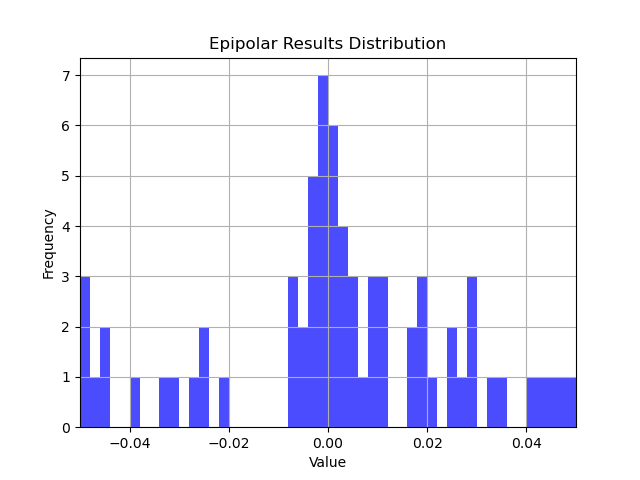
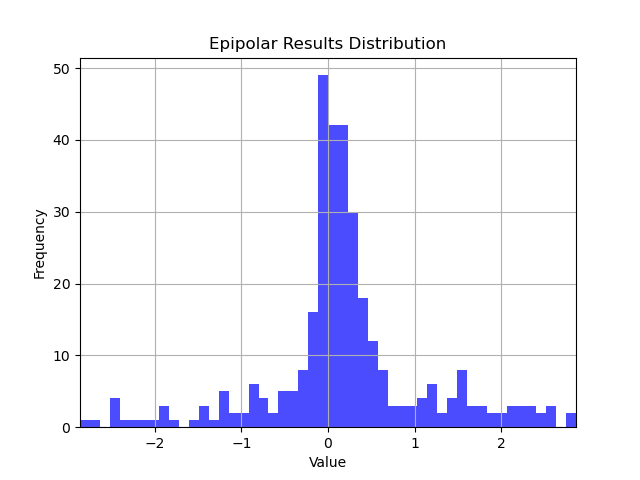
aa

diff --git a/show_matching.py b/show_matching.py
@@ -103,11 +103,36 @@ def main():
     x1,x2 = coord_3d(x1_, dim), coord_3d(x2_, dim)
     s_pts1, s_pts2 = coord_3d(s_pts1, dim), coord_3d(s_pts2, dim)
     E, can, inlier_idx = get_cam_pose_by_ransac_GSM_const_wRT(x1.copy().T,x2.copy().T, get_E = True, I = args.inliers)
-
+    print(inlier_idx)
     R1_,R2_,T1_,T2_ = decomposeE(E.T)
     R_,T_ = choose_rt(R1_,R2_,T1_,T2_,x1,x2)
     E_true = compute_essential_matrix(Rx, Tx_norm)
     results = evaluate_matches(x1, x2, E_true)
+
+    print(Tx)
+    print(x1.shape, x2.shape)
+    #print(E_true)
+    #print(Rx)
+    #print(Tx_norm)
+    #x1_world = np.dot(Rx, (x2-Tx).T).T
+    #x1_world_norm = x1_world / np.linalg.norm(x1_world, axis=1).reshape(-1, 1)
+    #print(x1_world[0:3])
+    #x_a = np.dot(Rx, x1.T).T+Tx.T
+    #x_a = x_a / np.linalg.norm(x_a, axis=1).reshape(-1, 1)
+    #x_b = np.dot(Rx, x1.T).T-Tx.T
+    #x_b = x_b / np.linalg.norm(x_b, axis=1).reshape(-1, 1)
+    #x_c = np.dot(Rx, x2.T).T+Tx.T
+    #x_c = x_c / np.linalg.norm(x_c, axis=1).reshape(-1, 1)
+    #x_d = np.dot(Rx, x2.T).T-Tx.T
+    #x_d = x_d / np.linalg.norm(x_d, axis=1).reshape(-1, 1)
+    #print(x2_world[0:3])
+    #print(x1[0])
+    #print(x2[0:2])
+    #print()
+    #print(x_a[0:2])
+    #print(x_b[0])
+    #print(x_c[0])
+    #print(x_d[0])
 
     print("Evaluation Results:")
     print(f"Valid Matches: {results['valid_matches']} / {results['total_matches']}")
@@ -122,14 +147,16 @@ def main():
     for i in range(len(x1)):
         vis_img = plot_match(img_o, img_r, s_pts1[i, :2], s_pts2[i, :2], x1_[i, :2].copy(), x2_[i, :2].copy(), results['threshold_results'][i])
         vis_img = cv2.resize(vis_img,dsize=(512,512))
+        print(x1[i], x2[i])
         cv2.imshow("aaa", vis_img)
         c = cv2.waitKey()
         if c == 27: # esc
             break
 
 
-def evaluate_matches(x1, x2, E, threshold=np.deg2rad(1)):
-    epipolar_results = np.einsum('ij,jk,ik->i', x2, E, x1)
+def evaluate_matches(x1, x2, E, threshold=1):
+    epipolar_results = np.einsum('ij,jk,ik->i', x2, E, x1)*180/np.pi
+    #print(epipolar_results)
     #angles = np.arccos(np.clip(epipolar_results, -1, 1))
     #max_epipolar_result = np.max(angles)
     #min_epipolar_result = np.min(angles)
@@ -153,11 +180,12 @@ def evaluate_matches(x1, x2, E, threshold=np.deg2rad(1)):
 
 def plot_epipolar_results(epipolar_results):
     plt.figure()
-    plt.hist(epipolar_results, bins=50, color='blue', alpha=0.7, range=(-0.05, 0.05))
+    range = (-0.05*180/np.pi, 0.05*180/np.pi)
+    plt.hist(epipolar_results, bins=50, color='blue', alpha=0.7, range=range)
     plt.title("Epipolar Results Distribution")
     plt.xlabel("Value")
     plt.ylabel("Frequency")
-    plt.xlim(-0.05, 0.05)
+    plt.xlim(range) 
     plt.grid(True)
     plt.savefig("temp_histogram.png")
     plt.close()

diff --git a/extract_keypoints.py b/extract_keypoints.py
@@ -35,10 +35,10 @@ device = 'cuda' if torch.cuda.is_available() else 'cpu'
 base_order = 0  # Base sphere resolution
 sample_order = 8  # Determines sample resolution (10 = 2048 x 4096) (0, 8): 20*256*256
 scale_factor = 1.0  # How much to scale input equirectangular image by
-
+np.random.seed(1)
+random.seed(1)
 
 def main():
-
     parser = argparse.ArgumentParser(description = 'Tangent Plane')
     parser.add_argument('--points', type=int, default = 10000)
     parser.add_argument('--match', default="BF")
@@ -129,7 +129,7 @@ def main():
                         s_pts1, s_pts2, x1_, x2_ = matched_points(pts1, pts2, desc1, desc2, "100p", opt, args.match)
                         x1,x2 = coord_3d(x1_, dim), coord_3d(x2_, dim)
                         s_pts1, s_pts2 = coord_3d(s_pts1, dim), coord_3d(s_pts2, dim)
-                        results1 = evaluate_matches(x1, x2, E_true, threshold=np.deg2rad(1))
+                        results1 = evaluate_matches_angle(x1, x2, E_true, threshold=np.deg2rad(1))
                         
                         if x1.shape[0] < 8:
                             R_error, T_error = 3.14, 3.14
@@ -178,7 +178,7 @@ def main():
             np.savetxt(base_path+'/TIMES_REMAP.csv',np.array(TIMES_REMAP[indicador]),delimiter=",")
             np.savetxt(base_path+'/TIMES_FEATURE.csv',np.array(TIMES_FEATURE[indicador]),delimiter=",")
             np.savetxt(base_path+'/MATCHING_SCORE.csv',np.array(MATCHING_SCORE[indicador]),delimiter=",")
-            np.savetxt(base_path+'/MEAN_MATCHING_ACCURCY.csv',np.array(MEAN_MATCHING_ACCURCY[indicador]),delimiter=",")
+            np.savetxt(base_path+'/MEAN_MATCHING_ACCURACY.csv',np.array(MEAN_MATCHING_ACCURCY[indicador]),delimiter=",")
             np.savetxt(base_path+'/MATCHING_NUM.csv',np.array(MATCHING_NUM[indicador]),delimiter=",")
             np.savetxt(base_path+'/VALID_MATCHING_NUM.csv',np.array(VALID_MATCHING_NUM[indicador]),delimiter=",")
             np.savetxt(base_path+'/FP_NUM.csv',np.array(FP_NUM[indicador]),delimiter=",")
@@ -199,7 +199,7 @@ def compute_essential_matrix(R, t):
     E = t_cross.dot(R)
     return E
 
-def evaluate_matches(x1, x2, E, threshold=np.deg2rad(1)):
+def evaluate_matches_angle(x1, x2, E, threshold=np.deg2rad(1)):
     epipolar_results = np.einsum('ij,jk,ik->i', x2, E, x1)
     valid_matches = np.sum(abs(epipolar_results) < threshold)
     total_matches = len(epipolar_results)
